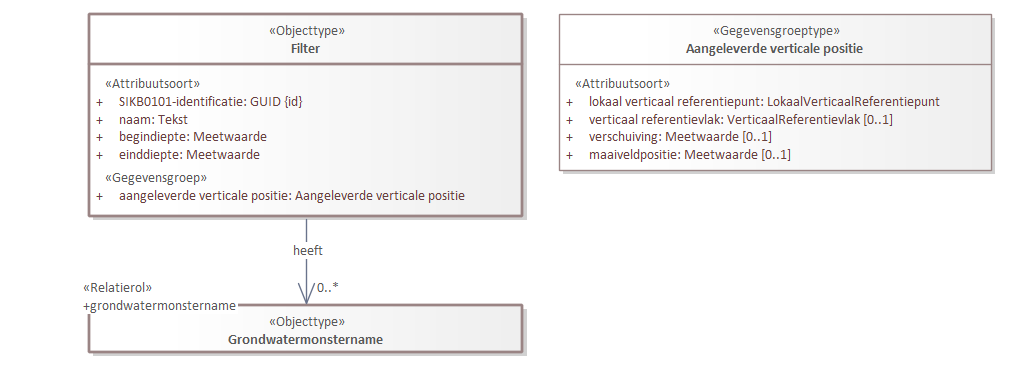
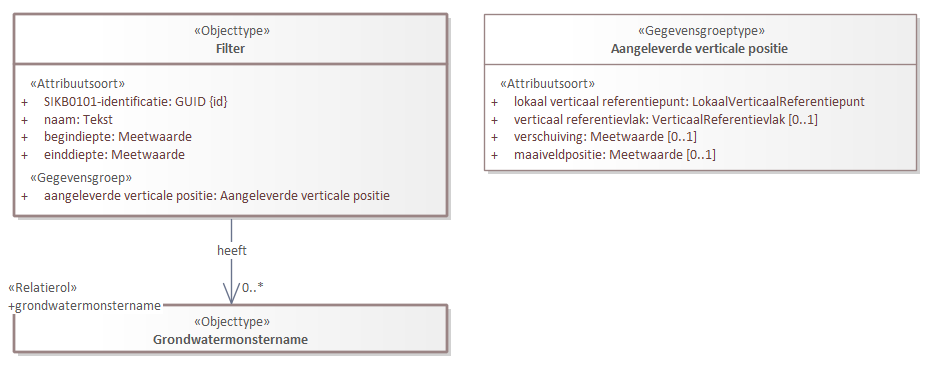
Conceptualmodel-MilieuhygienischbodemonderzoekSAD-1.1-2-20240925-20260722-143719

diff --git a/data/SAD-cat.msword.html b/data/SAD-cat.msword.html
@@ -6,7 +6,7 @@
                     table.list tbody tr th {background-color: #d3d3d3;}
                     table.list tbody tr th,
                     table.list tbody tr td {border: 1px solid black;}
-                </style></head><body><p>Conceptual model/Milieuhygienisch bodemonderzoek SAD/20240925</p><p>Imvertor: 4.5.0</p><p>Model release: Conceptualmodel-MilieuhygienischbodemonderzoekSAD-1.1-2-20240925-20260722-130236</p><hr><section><h1>Artikel 1 Definitie van registratieobject, entiteiten en attributen</h1><section><h2>Registratieobject</h2><section id="global_class_Model_Registratieobject">
+                </style></head><body><p>Conceptual model/Milieuhygienisch bodemonderzoek SAD/20240925</p><p>Imvertor: 4.5.0</p><p>Model release: Conceptualmodel-MilieuhygienischbodemonderzoekSAD-1.1-2-20240925-20260722-143719</p><hr><section><h1>Artikel 1 Definitie van registratieobject, entiteiten en attributen</h1><section><h2>Registratieobject</h2><section id="global_class_Model_Registratieobject">
                <table style="width: 100%;"><colgroup style="width: 30%;"></colgroup><colgroup style="width: 70%;"></colgroup><tbody><tr><th scope="row">Naam</th><td>Milieuhygiënisch bodemonderzoek</td></tr><tr><th scope="row">Code</th><td>SAD</td></tr><tr><th scope="row">Definitie</th><td>
                         <p>Het geheel van gegevens dat betrekking heeft op een onderzoek naar de milieuhygiënische kwaliteit van de bodem, dat vanuit een bepaalde opdracht is uitgevoerd door op een bepaald moment op een bepaalde locatie in Nederland archiefonderzoek en/of veldonderzoek uit te voeren. Waarbij in het veldonderzoek de volgende handelingen uitgevoerd kunnen worden: één of meer boringen uitvoeren, de onderscheiden bodemlagen  beschrijven en de monsters die daarmee uit de ondergrond zijn verkregen in het laboratorium  onderzoeken en/of één of meer peilbuizen plaatsen om waarnemingen aan het grondwater uit te voeren en/of grondwatermonsters te nemen voor analyse in het laboratorium.</p>
                      </td></tr><tr><th scope="row">Populatie</th><td>
@@ -682,7 +682,7 @@ Voor historische gegevens kan het voorkomen dat er geen meetpunt gekoppeld is aa
                            <p>De grondmonsters (verkregen uit de grondmonstername) waaruit het gemengde analysemonster is samengesteld.</p>
                         </td></tr><tr><th scope="row">Juridische status</th><td>Authentiek</td></tr><tr><th scope="row">Kardinaliteit</th><td>0..*</td></tr><tr><th scope="row">Relatiesoort naam</th><td>bestaat uit</td></tr><tr><th scope="row">Relatierol naam</th><td>grondmonstername</td></tr><tr><th scope="row">Bron</th><td>Analysemonster grond gemengd</td></tr><tr><th scope="row">Doel</th><td>
                            Grondmonstername
-                        </td></tr></tbody></table></section></section><section id="global_class_Model_Filter"><h3>   Filter</h3><div class="imageinfo "><img id="EAID_90D0CFE9_39E0_41d5_A741_9CB1B9C4157A" src="Images/EAID_90D0CFE9_39E0_41d5_A741_9CB1B9C4157A.png" usemap="#imagemap-EAID_90D0CFE9_39E0_41d5_A741_9CB1B9C4157A" alt="Diagram: Peilbuis - detail"><map name="imagemap-EAID_90D0CFE9_39E0_41d5_A741_9CB1B9C4157A"><area shape="rect" alt="Grondwatermonstername" coords="89,305,523,353" href="#global_class_Model_Grondwatermonstername"><area shape="rect" alt="Aangeleverde verticale positie" coords="559,14,992,171" href="#global_class_Model_Aangeleverdeverticalepositie"><area shape="rect" alt="Filter" coords="89,14,523,217" href="#global_class_Model_Filter"></map></div><table style="width: 100%;"><colgroup style="width: 30%;"></colgroup><colgroup style="width: 70%;"></colgroup><tbody><tr><th scope="row">Type gegeven</th><td>Entiteit</td></tr><tr><th scope="row">Definitie</th><td>
+                        </td></tr></tbody></table></section></section><section id="global_class_Model_Filter"><h3>   Filter</h3><div class="imageinfo "><img id="EAID_90D0CFE9_39E0_41d5_A741_9CB1B9C4157A" src="Images/EAID_90D0CFE9_39E0_41d5_A741_9CB1B9C4157A.png" usemap="#imagemap-EAID_90D0CFE9_39E0_41d5_A741_9CB1B9C4157A" alt="Diagram: Peilbuis - detail"><map name="imagemap-EAID_90D0CFE9_39E0_41d5_A741_9CB1B9C4157A"><area shape="rect" alt="Grondwatermonstername" coords="14,305,448,353" href="#global_class_Model_Grondwatermonstername"><area shape="rect" alt="Aangeleverde verticale positie" coords="484,14,917,171" href="#global_class_Model_Aangeleverdeverticalepositie"><area shape="rect" alt="Filter" coords="14,14,448,217" href="#global_class_Model_Filter"></map></div><table style="width: 100%;"><colgroup style="width: 30%;"></colgroup><colgroup style="width: 70%;"></colgroup><tbody><tr><th scope="row">Type gegeven</th><td>Entiteit</td></tr><tr><th scope="row">Definitie</th><td>
                         <p>Een filter binnen een peilbuis die is aangebracht om het grondwater uit een specifiek deel van de ondergrond te ontsluiten ten behoeve van waarnemingen, metingen of analyses op het grondwater.</p>
                      </td></tr><tr><th scope="row">Regels</th><td>
                         <p>Voor gegevens aangeleverd onder IMBRO-regime moet een <em>Filter</em> aanwezig zijn indien het <em>type</em> van de entiteit <em>Meetpunt</em> de waarde <em>Peilbuis</em> heeft.</p>
@@ -1413,7 +1413,7 @@ De domeintabel bevat een selectie van waarden uit de domeintabel <a href="https:
                         </ol>
                      
                   </td></tr></tbody></table>
-            <table style="width: 100%;" class="list"><colgroup style="width: 20%;"></colgroup><colgroup></colgroup><tbody><tr><th scope="col">Waarde</th><th scope="col">SIKB0101ID</th><th scope="col">IMBRO</th><th scope="col">IMBRO/A</th><th scope="col">Omschrijving</th></tr><tr><td>historischOnderzoek</td><td>2</td><td>v</td><td>v</td><td>Een archiefonderzoek, inclusief een locatiebezoek of gevelinspectie, naar activiteiten die op deze locatie hebben plaatsgevonden. Met een historisch onderzoek kan voorspeld worden of er een risico is op bodemverontreiniging en kan de strategie voor veldonderzoek bepaald worden.</td></tr><tr><td>indicatiefOnderzoek</td><td>3</td><td>v</td><td>v</td><td>Een beperkt bodemonderzoek, niet zijnde een volledig bodemonderzoek conform NEN 5740, bestaande uit enkele meetpunten (boringen en of peilbuizen) en analyses om de bodemkwaliteit ter plaatse van één of enkele meetpunten vast te stellen.</td></tr><tr><td>verkennendOnderzoekNEN5740</td><td>5</td><td>v</td><td>v</td><td>Een bodemonderzoek volgens norm NEN 5740 die beschrijft welke bodemonderzoekstrategie het best voor de betreffende situatie geschikt is om uiteindelijk een uitspraak te kunnen doen over de bodemkwaliteit op een locatie.</td></tr><tr><td>naderOnderzoek</td><td>8</td><td>v</td><td>v</td><td>Een vervolgonderzoek waarin gekeken wordt naar de omvang en ernst van de eerder aangetroffen verontreiniging.</td></tr><tr><td>evaluatieverslagSaneren</td><td>11</td><td>v</td><td>v</td><td>Een evaluatieverslag van de uitgevoerde bodemsanering onder de Wet Bodembescherming (Wbb) of de Omgevingswet (Bal artikel 4.1246).</td></tr><tr><td>monitoringsRapportage</td><td>12</td><td>v</td><td>v</td><td>Een rapportage die conclusies beschrijft van de uitgevoerde monitoring van een sanering of verontreiniging.</td></tr><tr><td>nazorgRapportage</td><td>13</td><td>v</td><td>v</td><td>Een rapportage waarin wordt beschreven welke (na)zorgmaatregelen bij een bodemsanering zijn getroffen.</td></tr><tr><td>aanvullendOnderzoek</td><td>15</td><td>v</td><td>v</td><td>Een beperkt bodemonderzoek, niet zijnde een volledig nader onderzoek, bestaande uit enkele meetpunten (boringen en of peilbuizen) en analyses om de bodemkwaliteit ter plaatse van één of enkele meetpunten vast te stellen.</td></tr><tr><td>nulOfEindsituatieOnderzoek</td><td>17</td><td>v</td><td>v</td><td>Een onderzoek om de kwaliteit van de bodem vast te stellen. Met de uitkomsten van dit onderzoek kan in de toekomst bekeken worden of door activiteiten op deze locatie de bodemkwaliteit is veranderd.</td></tr><tr><td>asbestOnderzoekNEN5707</td><td>21</td><td>v</td><td>v</td><td>Een grondonderzoek naar asbest volgens norm NEN 5707 die beschrijft welke strategie in bepaalde situaties gevolgd moet worden.</td></tr><tr><td>partijkeuringGrond</td><td>22</td><td>v</td><td>v</td><td>Een onderzoek waarvan de kwaliteit van een partij grond is onderzocht ten behoeve van de voorgenomen toepassing van deze grond.</td></tr><tr><td>verkennendAsbestOnderzoek</td><td>40</td><td>v</td><td>v</td><td>Een bodemonderzoek volgens norm NEN 5740 dat beschrijft welke bodemonderzoekstrategie het best voor de betreffende situatie geschikt is om uiteindelijk een uitspraak te kunnen doen over de bodemkwaliteit op een locatie, gecombineerd met een grondonderzoek naar asbest volgens norm NEN 5707.</td></tr><tr><td>naderEnAsbestonderzoek</td><td>41</td><td>v</td><td>v</td><td>Een vervolgonderzoek waarin gekeken wordt naar de omvang en ernst van de eerder aangetroffen verontreiniging c6nform NEN 5755, gecombineerd met een grondonderzoek naar asbest volgens norm NEN 5707.</td></tr><tr><td>naderLandEnWaterbodemonderzoek</td><td>42</td><td>v</td><td>v</td><td>Een vervolgonderzoek waarin gekeken wordt naar de omvang en ernst van de eerder aangetroffen verontreiniging op landbodem conform NEN 5755, gecombineerd met een Nader Onderzoek voor waterbodems conform  richtlijn AKWA 01.005, RIZA-nota 2001.052).</td></tr><tr><td>evaluatieverslagGraven</td><td>44</td><td>v</td><td>v</td><td>Evaluatieverslag van de milieukundige processturing bij milieukundige begeleiding tijdens MBA graven conform  (Bal artikel 4.1234).</td></tr><tr><td>bijzonderInventariserendOnderzoek</td><td>1</td><td></td><td>v</td><td>Een inventariserend onderzoek in een speciaal kader.</td></tr><tr><td>bodemSaneringBedrijven</td><td>4</td><td></td><td>v</td><td>Een bodemonderzoek met als doel te onderzoeken of er sprake is van bodemverontreiniging in het kader van de algemene maatregel van bestuur: bodemsanering van in gebruik zijnde bedrijfsterreinen.</td></tr><tr><td>verkennendOnderzoekNVN5740</td><td>6</td><td></td><td>v</td><td>Een bodemonderzoek volgens norm NVN 5740 ie beschrijft welke bodemonderzoekstrategie het best voor de betreffende situatie geschikt is om uiteindelijk een uitspraak te kunnen doen over de bodemkwaliteit op een locatie. De NEN 5740 is de opvolger van deze norm.</td></tr><tr><td>orienterendBodemonderzoek</td><td>7</td><td></td><td>v</td><td>Een algemeen onderzoek waarin gekeken wordt of op een locatie bodemverontreiniging voorkomt. In veel onderzoeken wordt een onderzoeksstrategie gehanteerd uit de NEN 5740.</td></tr><tr><td>briefRapport</td><td>14</td><td></td><td>v</td><td>Een verkorte rapportage van een bodemonderzoek in briefvorm.</td></tr><tr><td>fax</td><td>16</td><td></td><td>v</td><td>Verkorte rapportage van een bodemonderzoek per fax.</td></tr><tr><td>bouwstoffenBesluit</td><td>18</td><td></td><td>v</td><td>Een onderzoek naar de kwaliteit van een bouwstof (inclusief grond) dat is uitgevoerd in het kader van het voormalige Bouwstoffenbesluit.</td></tr><tr><td>preHO</td><td>19</td><td></td><td>v</td><td>Een onderzoek dat is verricht voorafgaand aan een historisch onderzoek, bijvoorbeeld een archiefinventarisatie.</td></tr><tr><td>boot</td><td>20</td><td></td><td>v</td><td>Een bodemonderzoek dat is verricht bij een ondergrondse tank in het kader van het Besluit Opslag Ondergrondse Tanks (BOOT).</td></tr><tr><td>meldingsformulierBusEvaluatieverslag</td><td>24</td><td></td><td>v</td><td>Een melding van een evaluatieverslag van een uitgevoerde sanering in het kader van het Besluit Uniforme Saneringen.</td></tr><tr><td>verkennendOnderzoekStortplaatsen</td><td>33</td><td></td><td>v</td><td>Een onderzoek dat is uitgevoerd volgens het onderzoeksprotocol voor een eerste evaluatie van bodemverontreiniging op voormalige stortplaatsen.</td></tr><tr><td>versnellingsProtocolSpoedlocaties</td><td>34</td><td></td><td>v</td><td>Onderzoek, uitgevoerd volgens de handreiking Identificatie Spoedlocaties ten behoeve van snelle schifting op potentieel spoed/geen spoed.</td></tr><tr><td>organisatieSpecifiekOnderzoek</td><td>35</td><td></td><td>v</td><td>Onderzoek dat volgens een organisatiespecifieke richtlijn is uitgevoerd. Geef in de entiteit Opmerking behorende bij de entiteit Onderzoek aan om welke organisatie en richtlijn het gaat.</td></tr></tbody></table>
+            <table style="width: 100%;" class="list"><colgroup style="width: 20%;"></colgroup><colgroup></colgroup><tbody><tr><th scope="col">Waarde</th><th scope="col">SIKB0101ID</th><th scope="col">IMBRO</th><th scope="col">IMBRO/A</th><th scope="col">Omschrijving</th></tr><tr><td>historischOnderzoek</td><td>2</td><td>v</td><td>v</td><td>Een archiefonderzoek, inclusief een locatiebezoek of gevelinspectie, naar activiteiten die op deze locatie hebben plaatsgevonden. Met een historisch onderzoek kan voorspeld worden of er een risico is op bodemverontreiniging en kan de strategie voor veldonderzoek bepaald worden.</td></tr><tr><td>indicatiefOnderzoek</td><td>3</td><td>v</td><td>v</td><td>Een beperkt bodemonderzoek, niet zijnde een volledig bodemonderzoek conform NEN 5740, bestaande uit enkele meetpunten (boringen en of peilbuizen) en analyses om de bodemkwaliteit ter plaatse van één of enkele meetpunten vast te stellen.</td></tr><tr><td>verkennendOnderzoekNEN5740</td><td>5</td><td>v</td><td>v</td><td>Een bodemonderzoek volgens norm NEN 5740 die beschrijft welke bodemonderzoekstrategie het best voor de betreffende situatie geschikt is om uiteindelijk een uitspraak te kunnen doen over de bodemkwaliteit op een locatie.</td></tr><tr><td>naderOnderzoek</td><td>8</td><td>v</td><td>v</td><td>Een vervolgonderzoek waarin gekeken wordt naar de omvang en ernst van de eerder aangetroffen verontreiniging.</td></tr><tr><td>evaluatieverslagSaneren</td><td>11</td><td>v</td><td>v</td><td>Een evaluatieverslag van de uitgevoerde bodemsanering onder de Wet Bodembescherming (Wbb) of de Omgevingswet (Bal artikel 4.1246).</td></tr><tr><td>monitoringsRapportage</td><td>12</td><td>v</td><td>v</td><td>Een rapportage die conclusies beschrijft van de uitgevoerde monitoring van een sanering of verontreiniging.</td></tr><tr><td>nazorgRapportage</td><td>13</td><td>v</td><td>v</td><td>Een rapportage waarin wordt beschreven welke (na)zorgmaatregelen bij een bodemsanering zijn getroffen.</td></tr><tr><td>aanvullendOnderzoek</td><td>15</td><td>v</td><td>v</td><td>Een beperkt bodemonderzoek, niet zijnde een volledig nader onderzoek, bestaande uit enkele meetpunten (boringen en of peilbuizen) en analyses om de bodemkwaliteit ter plaatse van één of enkele meetpunten vast te stellen.</td></tr><tr><td>nulOfEindsituatieOnderzoek</td><td>17</td><td>v</td><td>v</td><td>Een onderzoek om de kwaliteit van de bodem vast te stellen. Met de uitkomsten van dit onderzoek kan in de toekomst bekeken worden of door activiteiten op deze locatie de bodemkwaliteit is veranderd.</td></tr><tr><td>asbestOnderzoekNEN5707</td><td>21</td><td>v</td><td>v</td><td>Een grondonderzoek naar asbest volgens norm NEN 5707 die beschrijft welke strategie in bepaalde situaties gevolgd moet worden.</td></tr><tr><td>partijkeuringGrond</td><td>22</td><td>v</td><td>v</td><td>Een onderzoek waarvan de kwaliteit van een partij grond is onderzocht ten behoeve van de voorgenomen toepassing van deze grond.</td></tr><tr><td>meldingsformulierBusEvaluatieverslag</td><td>24</td><td>v</td><td>v</td><td>Een melding van een evaluatieverslag van een uitgevoerde sanering in het kader van het Besluit Uniforme Saneringen.</td></tr><tr><td>verkennendAsbestOnderzoek</td><td>40</td><td>v</td><td>v</td><td>Een bodemonderzoek volgens norm NEN 5740 dat beschrijft welke bodemonderzoekstrategie het best voor de betreffende situatie geschikt is om uiteindelijk een uitspraak te kunnen doen over de bodemkwaliteit op een locatie, gecombineerd met een grondonderzoek naar asbest volgens norm NEN 5707.</td></tr><tr><td>naderEnAsbestonderzoek</td><td>41</td><td>v</td><td>v</td><td>Een vervolgonderzoek waarin gekeken wordt naar de omvang en ernst van de eerder aangetroffen verontreiniging c6nform NEN 5755, gecombineerd met een grondonderzoek naar asbest volgens norm NEN 5707.</td></tr><tr><td>naderLandEnWaterbodemonderzoek</td><td>42</td><td>v</td><td>v</td><td>Een vervolgonderzoek waarin gekeken wordt naar de omvang en ernst van de eerder aangetroffen verontreiniging op landbodem conform NEN 5755, gecombineerd met een Nader Onderzoek voor waterbodems conform  richtlijn AKWA 01.005, RIZA-nota 2001.052).</td></tr><tr><td>evaluatieverslagGraven</td><td>44</td><td>v</td><td>v</td><td>Evaluatieverslag van de milieukundige processturing bij milieukundige begeleiding tijdens MBA graven conform  (Bal artikel 4.1234).</td></tr><tr><td>bijzonderInventariserendOnderzoek</td><td>1</td><td></td><td>v</td><td>Een inventariserend onderzoek in een speciaal kader.</td></tr><tr><td>bodemSaneringBedrijven</td><td>4</td><td></td><td>v</td><td>Een bodemonderzoek met als doel te onderzoeken of er sprake is van bodemverontreiniging in het kader van de algemene maatregel van bestuur: bodemsanering van in gebruik zijnde bedrijfsterreinen.</td></tr><tr><td>verkennendOnderzoekNVN5740</td><td>6</td><td></td><td>v</td><td>Een bodemonderzoek volgens norm NVN 5740 ie beschrijft welke bodemonderzoekstrategie het best voor de betreffende situatie geschikt is om uiteindelijk een uitspraak te kunnen doen over de bodemkwaliteit op een locatie. De NEN 5740 is de opvolger van deze norm.</td></tr><tr><td>orienterendBodemonderzoek</td><td>7</td><td></td><td>v</td><td>Een algemeen onderzoek waarin gekeken wordt of op een locatie bodemverontreiniging voorkomt. In veel onderzoeken wordt een onderzoeksstrategie gehanteerd uit de NEN 5740.</td></tr><tr><td>briefRapport</td><td>14</td><td></td><td>v</td><td>Een verkorte rapportage van een bodemonderzoek in briefvorm.</td></tr><tr><td>fax</td><td>16</td><td></td><td>v</td><td>Verkorte rapportage van een bodemonderzoek per fax.</td></tr><tr><td>bouwstoffenBesluit</td><td>18</td><td></td><td>v</td><td>Een onderzoek naar de kwaliteit van een bouwstof (inclusief grond) dat is uitgevoerd in het kader van het voormalige Bouwstoffenbesluit.</td></tr><tr><td>preHO</td><td>19</td><td></td><td>v</td><td>Een onderzoek dat is verricht voorafgaand aan een historisch onderzoek, bijvoorbeeld een archiefinventarisatie.</td></tr><tr><td>boot</td><td>20</td><td></td><td>v</td><td>Een bodemonderzoek dat is verricht bij een ondergrondse tank in het kader van het Besluit Opslag Ondergrondse Tanks (BOOT).</td></tr><tr><td>verkennendOnderzoekStortplaatsen</td><td>33</td><td></td><td>v</td><td>Een onderzoek dat is uitgevoerd volgens het onderzoeksprotocol voor een eerste evaluatie van bodemverontreiniging op voormalige stortplaatsen.</td></tr><tr><td>versnellingsProtocolSpoedlocaties</td><td>34</td><td></td><td>v</td><td>Onderzoek, uitgevoerd volgens de handreiking Identificatie Spoedlocaties ten behoeve van snelle schifting op potentieel spoed/geen spoed.</td></tr><tr><td>organisatieSpecifiekOnderzoek</td><td>35</td><td></td><td>v</td><td>Onderzoek dat volgens een organisatiespecifieke richtlijn is uitgevoerd. Geef in de entiteit Opmerking behorende bij de entiteit Onderzoek aan om welke organisatie en richtlijn het gaat.</td></tr></tbody></table>
          </section><section id="detail_class_Model_OrganischeStofgehalteKlasse"><h3>  OrganischeStofgehalteKlasse</h3>
             <table style="width: 100%;" class="list"><colgroup></colgroup><tbody><tr><td>
                      

diff --git a/data/SAD-cat.respec.html b/data/SAD-cat.respec.html
@@ -674,7 +674,7 @@ Voor historische gegevens kan het voorkomen dat er geen meetpunt gekoppeld is aa
                            <p>De grondmonsters (verkregen uit de grondmonstername) waaruit het gemengde analysemonster is samengesteld.</p>
                         </td></tr><tr><th scope="row">Juridische status</th><td>Authentiek</td></tr><tr><th scope="row">Kardinaliteit</th><td>0..*</td></tr><tr><th scope="row">Relatiesoort naam</th><td>bestaat uit</td></tr><tr><th scope="row">Relatierol naam</th><td>grondmonstername</td></tr><tr><th scope="row">Bron</th><td>Analysemonster grond gemengd</td></tr><tr><th scope="row">Doel</th><td>
                            Grondmonstername
-                        </td></tr></tbody></table></section></section><section id="global_class_Model_Filter"><h3>   Filter</h3><div class="imageinfo "><img id="EAID_90D0CFE9_39E0_41d5_A741_9CB1B9C4157A" src="data/Images/EAID_90D0CFE9_39E0_41d5_A741_9CB1B9C4157A.png" usemap="#imagemap-EAID_90D0CFE9_39E0_41d5_A741_9CB1B9C4157A" alt="Diagram: Peilbuis - detail"><map name="imagemap-EAID_90D0CFE9_39E0_41d5_A741_9CB1B9C4157A"><area shape="rect" alt="Grondwatermonstername" coords="89,305,523,353" href="#global_class_Model_Grondwatermonstername"><area shape="rect" alt="Aangeleverde verticale positie" coords="559,14,992,171" href="#global_class_Model_Aangeleverdeverticalepositie"><area shape="rect" alt="Filter" coords="89,14,523,217" href="#global_class_Model_Filter"></map></div><table style="width: 100%;"><colgroup style="width: 30%;"></colgroup><colgroup style="width: 70%;"></colgroup><tbody><tr><th scope="row">Type gegeven</th><td>Entiteit</td></tr><tr><th scope="row">Definitie</th><td>
+                        </td></tr></tbody></table></section></section><section id="global_class_Model_Filter"><h3>   Filter</h3><div class="imageinfo "><img id="EAID_90D0CFE9_39E0_41d5_A741_9CB1B9C4157A" src="data/Images/EAID_90D0CFE9_39E0_41d5_A741_9CB1B9C4157A.png" usemap="#imagemap-EAID_90D0CFE9_39E0_41d5_A741_9CB1B9C4157A" alt="Diagram: Peilbuis - detail"><map name="imagemap-EAID_90D0CFE9_39E0_41d5_A741_9CB1B9C4157A"><area shape="rect" alt="Grondwatermonstername" coords="14,305,448,353" href="#global_class_Model_Grondwatermonstername"><area shape="rect" alt="Aangeleverde verticale positie" coords="484,14,917,171" href="#global_class_Model_Aangeleverdeverticalepositie"><area shape="rect" alt="Filter" coords="14,14,448,217" href="#global_class_Model_Filter"></map></div><table style="width: 100%;"><colgroup style="width: 30%;"></colgroup><colgroup style="width: 70%;"></colgroup><tbody><tr><th scope="row">Type gegeven</th><td>Entiteit</td></tr><tr><th scope="row">Definitie</th><td>
                         <p>Een filter binnen een peilbuis die is aangebracht om het grondwater uit een specifiek deel van de ondergrond te ontsluiten ten behoeve van waarnemingen, metingen of analyses op het grondwater.</p>
                      </td></tr><tr><th scope="row">Regels</th><td>
                         <p>Voor gegevens aangeleverd onder IMBRO-regime moet een <em>Filter</em> aanwezig zijn indien het <em>type</em> van de entiteit <em>Meetpunt</em> de waarde <em>Peilbuis</em> heeft.</p>
@@ -1405,7 +1405,7 @@ De domeintabel bevat een selectie van waarden uit de domeintabel <a href="https:
                         </ol>
                      
                   </td></tr></tbody></table>
-            <table style="width: 100%;" class="list"><colgroup style="width: 20%;"></colgroup><colgroup></colgroup><tbody><tr><th scope="col">Waarde</th><th scope="col">SIKB0101ID</th><th scope="col">IMBRO</th><th scope="col">IMBRO/A</th><th scope="col">Omschrijving</th></tr><tr><td>historischOnderzoek</td><td>2</td><td>v</td><td>v</td><td>Een archiefonderzoek, inclusief een locatiebezoek of gevelinspectie, naar activiteiten die op deze locatie hebben plaatsgevonden. Met een historisch onderzoek kan voorspeld worden of er een risico is op bodemverontreiniging en kan de strategie voor veldonderzoek bepaald worden.</td></tr><tr><td>indicatiefOnderzoek</td><td>3</td><td>v</td><td>v</td><td>Een beperkt bodemonderzoek, niet zijnde een volledig bodemonderzoek conform NEN 5740, bestaande uit enkele meetpunten (boringen en of peilbuizen) en analyses om de bodemkwaliteit ter plaatse van één of enkele meetpunten vast te stellen.</td></tr><tr><td>verkennendOnderzoekNEN5740</td><td>5</td><td>v</td><td>v</td><td>Een bodemonderzoek volgens norm NEN 5740 die beschrijft welke bodemonderzoekstrategie het best voor de betreffende situatie geschikt is om uiteindelijk een uitspraak te kunnen doen over de bodemkwaliteit op een locatie.</td></tr><tr><td>naderOnderzoek</td><td>8</td><td>v</td><td>v</td><td>Een vervolgonderzoek waarin gekeken wordt naar de omvang en ernst van de eerder aangetroffen verontreiniging.</td></tr><tr><td>evaluatieverslagSaneren</td><td>11</td><td>v</td><td>v</td><td>Een evaluatieverslag van de uitgevoerde bodemsanering onder de Wet Bodembescherming (Wbb) of de Omgevingswet (Bal artikel 4.1246).</td></tr><tr><td>monitoringsRapportage</td><td>12</td><td>v</td><td>v</td><td>Een rapportage die conclusies beschrijft van de uitgevoerde monitoring van een sanering of verontreiniging.</td></tr><tr><td>nazorgRapportage</td><td>13</td><td>v</td><td>v</td><td>Een rapportage waarin wordt beschreven welke (na)zorgmaatregelen bij een bodemsanering zijn getroffen.</td></tr><tr><td>aanvullendOnderzoek</td><td>15</td><td>v</td><td>v</td><td>Een beperkt bodemonderzoek, niet zijnde een volledig nader onderzoek, bestaande uit enkele meetpunten (boringen en of peilbuizen) en analyses om de bodemkwaliteit ter plaatse van één of enkele meetpunten vast te stellen.</td></tr><tr><td>nulOfEindsituatieOnderzoek</td><td>17</td><td>v</td><td>v</td><td>Een onderzoek om de kwaliteit van de bodem vast te stellen. Met de uitkomsten van dit onderzoek kan in de toekomst bekeken worden of door activiteiten op deze locatie de bodemkwaliteit is veranderd.</td></tr><tr><td>asbestOnderzoekNEN5707</td><td>21</td><td>v</td><td>v</td><td>Een grondonderzoek naar asbest volgens norm NEN 5707 die beschrijft welke strategie in bepaalde situaties gevolgd moet worden.</td></tr><tr><td>partijkeuringGrond</td><td>22</td><td>v</td><td>v</td><td>Een onderzoek waarvan de kwaliteit van een partij grond is onderzocht ten behoeve van de voorgenomen toepassing van deze grond.</td></tr><tr><td>verkennendAsbestOnderzoek</td><td>40</td><td>v</td><td>v</td><td>Een bodemonderzoek volgens norm NEN 5740 dat beschrijft welke bodemonderzoekstrategie het best voor de betreffende situatie geschikt is om uiteindelijk een uitspraak te kunnen doen over de bodemkwaliteit op een locatie, gecombineerd met een grondonderzoek naar asbest volgens norm NEN 5707.</td></tr><tr><td>naderEnAsbestonderzoek</td><td>41</td><td>v</td><td>v</td><td>Een vervolgonderzoek waarin gekeken wordt naar de omvang en ernst van de eerder aangetroffen verontreiniging c6nform NEN 5755, gecombineerd met een grondonderzoek naar asbest volgens norm NEN 5707.</td></tr><tr><td>naderLandEnWaterbodemonderzoek</td><td>42</td><td>v</td><td>v</td><td>Een vervolgonderzoek waarin gekeken wordt naar de omvang en ernst van de eerder aangetroffen verontreiniging op landbodem conform NEN 5755, gecombineerd met een Nader Onderzoek voor waterbodems conform  richtlijn AKWA 01.005, RIZA-nota 2001.052).</td></tr><tr><td>evaluatieverslagGraven</td><td>44</td><td>v</td><td>v</td><td>Evaluatieverslag van de milieukundige processturing bij milieukundige begeleiding tijdens MBA graven conform  (Bal artikel 4.1234).</td></tr><tr><td>bijzonderInventariserendOnderzoek</td><td>1</td><td></td><td>v</td><td>Een inventariserend onderzoek in een speciaal kader.</td></tr><tr><td>bodemSaneringBedrijven</td><td>4</td><td></td><td>v</td><td>Een bodemonderzoek met als doel te onderzoeken of er sprake is van bodemverontreiniging in het kader van de algemene maatregel van bestuur: bodemsanering van in gebruik zijnde bedrijfsterreinen.</td></tr><tr><td>verkennendOnderzoekNVN5740</td><td>6</td><td></td><td>v</td><td>Een bodemonderzoek volgens norm NVN 5740 ie beschrijft welke bodemonderzoekstrategie het best voor de betreffende situatie geschikt is om uiteindelijk een uitspraak te kunnen doen over de bodemkwaliteit op een locatie. De NEN 5740 is de opvolger van deze norm.</td></tr><tr><td>orienterendBodemonderzoek</td><td>7</td><td></td><td>v</td><td>Een algemeen onderzoek waarin gekeken wordt of op een locatie bodemverontreiniging voorkomt. In veel onderzoeken wordt een onderzoeksstrategie gehanteerd uit de NEN 5740.</td></tr><tr><td>briefRapport</td><td>14</td><td></td><td>v</td><td>Een verkorte rapportage van een bodemonderzoek in briefvorm.</td></tr><tr><td>fax</td><td>16</td><td></td><td>v</td><td>Verkorte rapportage van een bodemonderzoek per fax.</td></tr><tr><td>bouwstoffenBesluit</td><td>18</td><td></td><td>v</td><td>Een onderzoek naar de kwaliteit van een bouwstof (inclusief grond) dat is uitgevoerd in het kader van het voormalige Bouwstoffenbesluit.</td></tr><tr><td>preHO</td><td>19</td><td></td><td>v</td><td>Een onderzoek dat is verricht voorafgaand aan een historisch onderzoek, bijvoorbeeld een archiefinventarisatie.</td></tr><tr><td>boot</td><td>20</td><td></td><td>v</td><td>Een bodemonderzoek dat is verricht bij een ondergrondse tank in het kader van het Besluit Opslag Ondergrondse Tanks (BOOT).</td></tr><tr><td>meldingsformulierBusEvaluatieverslag</td><td>24</td><td></td><td>v</td><td>Een melding van een evaluatieverslag van een uitgevoerde sanering in het kader van het Besluit Uniforme Saneringen.</td></tr><tr><td>verkennendOnderzoekStortplaatsen</td><td>33</td><td></td><td>v</td><td>Een onderzoek dat is uitgevoerd volgens het onderzoeksprotocol voor een eerste evaluatie van bodemverontreiniging op voormalige stortplaatsen.</td></tr><tr><td>versnellingsProtocolSpoedlocaties</td><td>34</td><td></td><td>v</td><td>Onderzoek, uitgevoerd volgens de handreiking Identificatie Spoedlocaties ten behoeve van snelle schifting op potentieel spoed/geen spoed.</td></tr><tr><td>organisatieSpecifiekOnderzoek</td><td>35</td><td></td><td>v</td><td>Onderzoek dat volgens een organisatiespecifieke richtlijn is uitgevoerd. Geef in de entiteit Opmerking behorende bij de entiteit Onderzoek aan om welke organisatie en richtlijn het gaat.</td></tr></tbody></table>
+            <table style="width: 100%;" class="list"><colgroup style="width: 20%;"></colgroup><colgroup></colgroup><tbody><tr><th scope="col">Waarde</th><th scope="col">SIKB0101ID</th><th scope="col">IMBRO</th><th scope="col">IMBRO/A</th><th scope="col">Omschrijving</th></tr><tr><td>historischOnderzoek</td><td>2</td><td>v</td><td>v</td><td>Een archiefonderzoek, inclusief een locatiebezoek of gevelinspectie, naar activiteiten die op deze locatie hebben plaatsgevonden. Met een historisch onderzoek kan voorspeld worden of er een risico is op bodemverontreiniging en kan de strategie voor veldonderzoek bepaald worden.</td></tr><tr><td>indicatiefOnderzoek</td><td>3</td><td>v</td><td>v</td><td>Een beperkt bodemonderzoek, niet zijnde een volledig bodemonderzoek conform NEN 5740, bestaande uit enkele meetpunten (boringen en of peilbuizen) en analyses om de bodemkwaliteit ter plaatse van één of enkele meetpunten vast te stellen.</td></tr><tr><td>verkennendOnderzoekNEN5740</td><td>5</td><td>v</td><td>v</td><td>Een bodemonderzoek volgens norm NEN 5740 die beschrijft welke bodemonderzoekstrategie het best voor de betreffende situatie geschikt is om uiteindelijk een uitspraak te kunnen doen over de bodemkwaliteit op een locatie.</td></tr><tr><td>naderOnderzoek</td><td>8</td><td>v</td><td>v</td><td>Een vervolgonderzoek waarin gekeken wordt naar de omvang en ernst van de eerder aangetroffen verontreiniging.</td></tr><tr><td>evaluatieverslagSaneren</td><td>11</td><td>v</td><td>v</td><td>Een evaluatieverslag van de uitgevoerde bodemsanering onder de Wet Bodembescherming (Wbb) of de Omgevingswet (Bal artikel 4.1246).</td></tr><tr><td>monitoringsRapportage</td><td>12</td><td>v</td><td>v</td><td>Een rapportage die conclusies beschrijft van de uitgevoerde monitoring van een sanering of verontreiniging.</td></tr><tr><td>nazorgRapportage</td><td>13</td><td>v</td><td>v</td><td>Een rapportage waarin wordt beschreven welke (na)zorgmaatregelen bij een bodemsanering zijn getroffen.</td></tr><tr><td>aanvullendOnderzoek</td><td>15</td><td>v</td><td>v</td><td>Een beperkt bodemonderzoek, niet zijnde een volledig nader onderzoek, bestaande uit enkele meetpunten (boringen en of peilbuizen) en analyses om de bodemkwaliteit ter plaatse van één of enkele meetpunten vast te stellen.</td></tr><tr><td>nulOfEindsituatieOnderzoek</td><td>17</td><td>v</td><td>v</td><td>Een onderzoek om de kwaliteit van de bodem vast te stellen. Met de uitkomsten van dit onderzoek kan in de toekomst bekeken worden of door activiteiten op deze locatie de bodemkwaliteit is veranderd.</td></tr><tr><td>asbestOnderzoekNEN5707</td><td>21</td><td>v</td><td>v</td><td>Een grondonderzoek naar asbest volgens norm NEN 5707 die beschrijft welke strategie in bepaalde situaties gevolgd moet worden.</td></tr><tr><td>partijkeuringGrond</td><td>22</td><td>v</td><td>v</td><td>Een onderzoek waarvan de kwaliteit van een partij grond is onderzocht ten behoeve van de voorgenomen toepassing van deze grond.</td></tr><tr><td>meldingsformulierBusEvaluatieverslag</td><td>24</td><td>v</td><td>v</td><td>Een melding van een evaluatieverslag van een uitgevoerde sanering in het kader van het Besluit Uniforme Saneringen.</td></tr><tr><td>verkennendAsbestOnderzoek</td><td>40</td><td>v</td><td>v</td><td>Een bodemonderzoek volgens norm NEN 5740 dat beschrijft welke bodemonderzoekstrategie het best voor de betreffende situatie geschikt is om uiteindelijk een uitspraak te kunnen doen over de bodemkwaliteit op een locatie, gecombineerd met een grondonderzoek naar asbest volgens norm NEN 5707.</td></tr><tr><td>naderEnAsbestonderzoek</td><td>41</td><td>v</td><td>v</td><td>Een vervolgonderzoek waarin gekeken wordt naar de omvang en ernst van de eerder aangetroffen verontreiniging c6nform NEN 5755, gecombineerd met een grondonderzoek naar asbest volgens norm NEN 5707.</td></tr><tr><td>naderLandEnWaterbodemonderzoek</td><td>42</td><td>v</td><td>v</td><td>Een vervolgonderzoek waarin gekeken wordt naar de omvang en ernst van de eerder aangetroffen verontreiniging op landbodem conform NEN 5755, gecombineerd met een Nader Onderzoek voor waterbodems conform  richtlijn AKWA 01.005, RIZA-nota 2001.052).</td></tr><tr><td>evaluatieverslagGraven</td><td>44</td><td>v</td><td>v</td><td>Evaluatieverslag van de milieukundige processturing bij milieukundige begeleiding tijdens MBA graven conform  (Bal artikel 4.1234).</td></tr><tr><td>bijzonderInventariserendOnderzoek</td><td>1</td><td></td><td>v</td><td>Een inventariserend onderzoek in een speciaal kader.</td></tr><tr><td>bodemSaneringBedrijven</td><td>4</td><td></td><td>v</td><td>Een bodemonderzoek met als doel te onderzoeken of er sprake is van bodemverontreiniging in het kader van de algemene maatregel van bestuur: bodemsanering van in gebruik zijnde bedrijfsterreinen.</td></tr><tr><td>verkennendOnderzoekNVN5740</td><td>6</td><td></td><td>v</td><td>Een bodemonderzoek volgens norm NVN 5740 ie beschrijft welke bodemonderzoekstrategie het best voor de betreffende situatie geschikt is om uiteindelijk een uitspraak te kunnen doen over de bodemkwaliteit op een locatie. De NEN 5740 is de opvolger van deze norm.</td></tr><tr><td>orienterendBodemonderzoek</td><td>7</td><td></td><td>v</td><td>Een algemeen onderzoek waarin gekeken wordt of op een locatie bodemverontreiniging voorkomt. In veel onderzoeken wordt een onderzoeksstrategie gehanteerd uit de NEN 5740.</td></tr><tr><td>briefRapport</td><td>14</td><td></td><td>v</td><td>Een verkorte rapportage van een bodemonderzoek in briefvorm.</td></tr><tr><td>fax</td><td>16</td><td></td><td>v</td><td>Verkorte rapportage van een bodemonderzoek per fax.</td></tr><tr><td>bouwstoffenBesluit</td><td>18</td><td></td><td>v</td><td>Een onderzoek naar de kwaliteit van een bouwstof (inclusief grond) dat is uitgevoerd in het kader van het voormalige Bouwstoffenbesluit.</td></tr><tr><td>preHO</td><td>19</td><td></td><td>v</td><td>Een onderzoek dat is verricht voorafgaand aan een historisch onderzoek, bijvoorbeeld een archiefinventarisatie.</td></tr><tr><td>boot</td><td>20</td><td></td><td>v</td><td>Een bodemonderzoek dat is verricht bij een ondergrondse tank in het kader van het Besluit Opslag Ondergrondse Tanks (BOOT).</td></tr><tr><td>verkennendOnderzoekStortplaatsen</td><td>33</td><td></td><td>v</td><td>Een onderzoek dat is uitgevoerd volgens het onderzoeksprotocol voor een eerste evaluatie van bodemverontreiniging op voormalige stortplaatsen.</td></tr><tr><td>versnellingsProtocolSpoedlocaties</td><td>34</td><td></td><td>v</td><td>Onderzoek, uitgevoerd volgens de handreiking Identificatie Spoedlocaties ten behoeve van snelle schifting op potentieel spoed/geen spoed.</td></tr><tr><td>organisatieSpecifiekOnderzoek</td><td>35</td><td></td><td>v</td><td>Onderzoek dat volgens een organisatiespecifieke richtlijn is uitgevoerd. Geef in de entiteit Opmerking behorende bij de entiteit Onderzoek aan om welke organisatie en richtlijn het gaat.</td></tr></tbody></table>
          </section><section id="detail_class_Model_OrganischeStofgehalteKlasse"><h2>  OrganischeStofgehalteKlasse</h2>
             <table style="width: 100%;" class="list"><colgroup></colgroup><tbody><tr><td>
                      
